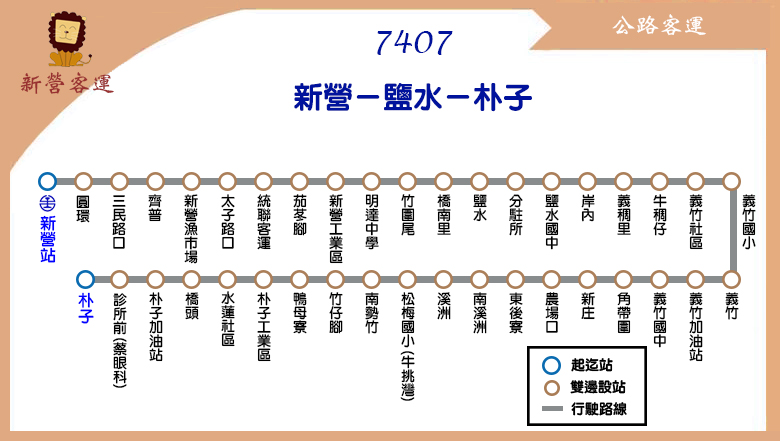
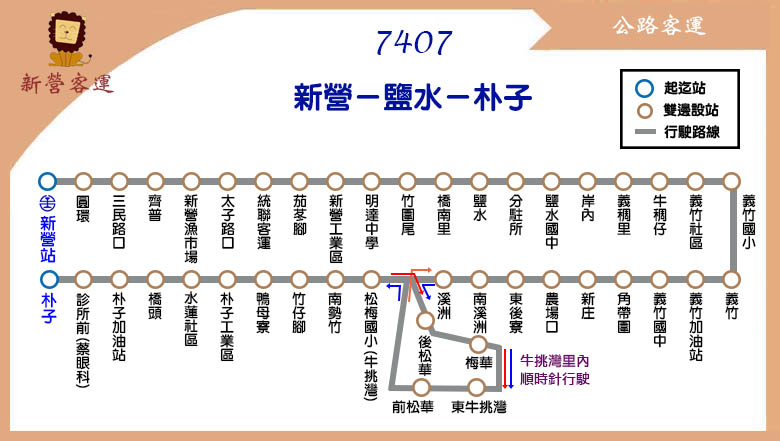
更新路線圖、時刻表及票價表：7407 (繞駛牛挑灣里內)

diff --git a/route/fare_and_time/highway_bus_7407.js b/route/fare_and_time/highway_bus_7407.js
@@ -10,7 +10,7 @@ highway_bus_7407_interval_stop = [
 ["新庄","農場口"], // 新庄
 ["東後寮"], // 東後寮
 ["南溪洲","溪洲"], // 溪洲
-["松梅國小(牛挑灣)","南勢竹"], // 牛挑灣(國小)
+["後松華","梅華","東牛挑灣","前松華","松梅國小(牛挑灣)","南勢竹"], // 牛挑灣(國小)
 ["竹仔腳"], // 竹仔腳
 ["鴨母寮","朴子工業區","水蓮社區","橋頭"], // 鴨母寮
 ["朴子加油站","診所前(蔡眼科)","朴子"] // 朴子
@@ -20,23 +20,23 @@ highway_bus_7407_fare = [
 [24,21,21,24,28,30,35,39,44,49,55,61,64,75],
 [24,24,21,21,21,21,22,26,31,36,42,48,51,62],
 [24,24,24,21,21,21,21,21,23,28,34,40,43,54],
-[28,24,24,24,21,21,21,21,21,24,30,37,39,51],
-[32,24,24,24,24,21,21,21,21,21,27,33,36,47],
-[34,24,24,24,24,24,21,21,21,21,25,31,34,45],
-[39,25,24,24,24,24,24,21,21,21,21,26,29,40],
-[45,30,24,24,24,24,24,24,21,21,21,22,24,36],
-[50,35,26,24,24,24,24,24,24,21,21,21,21,31],
-[56,41,32,28,25,24,24,24,24,24,21,21,21,26],
-[63,48,39,35,31,29,24,24,24,24,24,21,21,21],
-[70,55,46,42,38,36,30,25,24,24,24,24,21,21],
-[73,58,49,45,41,39,33,28,24,24,24,24,24,21],
-[86,71,62,58,54,52,46,41,36,30,24,24,24,24]
+[27,24,24,24,21,21,21,21,21,24,30,37,39,51],
+[31,24,24,24,24,21,21,21,21,21,27,33,36,47],
+[33,24,24,24,24,24,21,21,21,21,25,31,34,45],
+[38,25,24,24,24,24,24,21,21,21,21,26,29,40],
+[44,29,24,24,24,24,24,24,21,21,21,22,24,36],
+[49,34,26,24,24,24,24,24,24,21,21,21,21,31],
+[55,40,32,28,24,24,24,24,24,24,21,21,21,26],
+[61,46,38,34,30,28,24,24,24,24,24,21,21,21],
+[68,54,45,41,37,35,30,24,24,24,24,24,21,21],
+[71,57,48,44,40,38,33,27,24,24,24,24,24,21],
+[84,69,61,57,53,51,45,40,35,29,24,24,24,24]
 ];
 // format = [time at the start stop] or
 // [time, other] or
 // [time, start_stop, end_stop, other]
-highway_bus_7407_main_stop_name = ["新營","鹽水","義竹","東後寮","牛挑灣","朴子"];
-highway_bus_7407_main_stop_time_consume = [0,18,25,35,42,55];
-highway_bus_7407_important_stop = [0, 1, 5]; // 新營, 鹽水, 朴子
-highway_bus_7407_time_go = [["07:05"],["07:40"],["08:40"],["12:00"],["13:00"],["15:30"],["17:00"],["17:50"],["19:15"]];
-highway_bus_7407_time_return = [["06:05"],["06:55"],["08:05"],["08:40"],["09:50"],["13:00"],["14:00"],["16:40"],["18:10"]];
+highway_bus_7407_main_stop_name = ["新營","鹽水","義竹","東後寮","梅華","松梅國小<br />(牛挑灣)","朴子"];
+highway_bus_7407_main_stop_time_consume = [0,18,25,35,43,45,60];
+highway_bus_7407_important_stop = [0, 1, 6]; // 新營, 鹽水, 朴子
+highway_bus_7407_time_go = [["07:05"],["07:40"],["08:40"],["11:40"],["13:20"],["15:30"],["17:00"],["17:50"],["19:15"]];
+highway_bus_7407_time_return = [["06:00"],["07:05"],["08:10"],["08:45"],["10:00"],["12:45"],["14:25"],["16:40"],["18:10"]];
